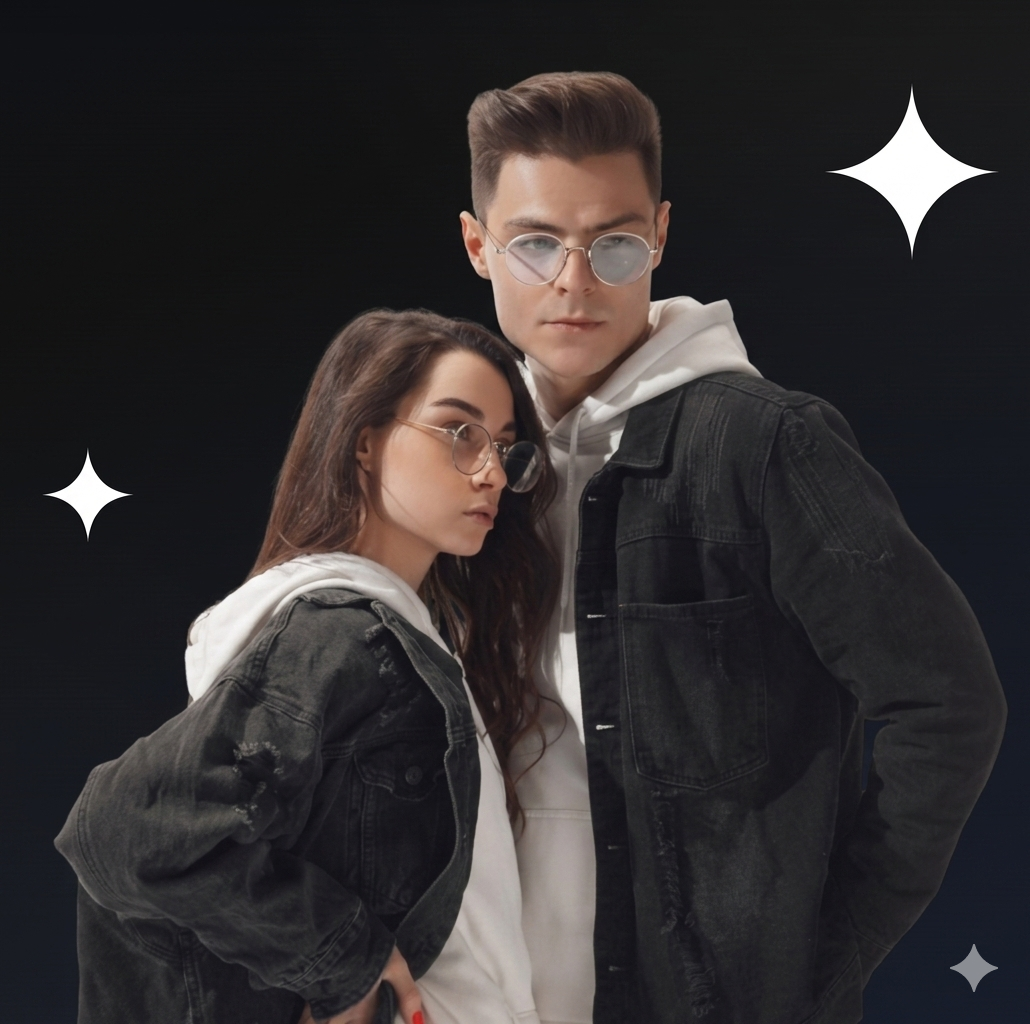
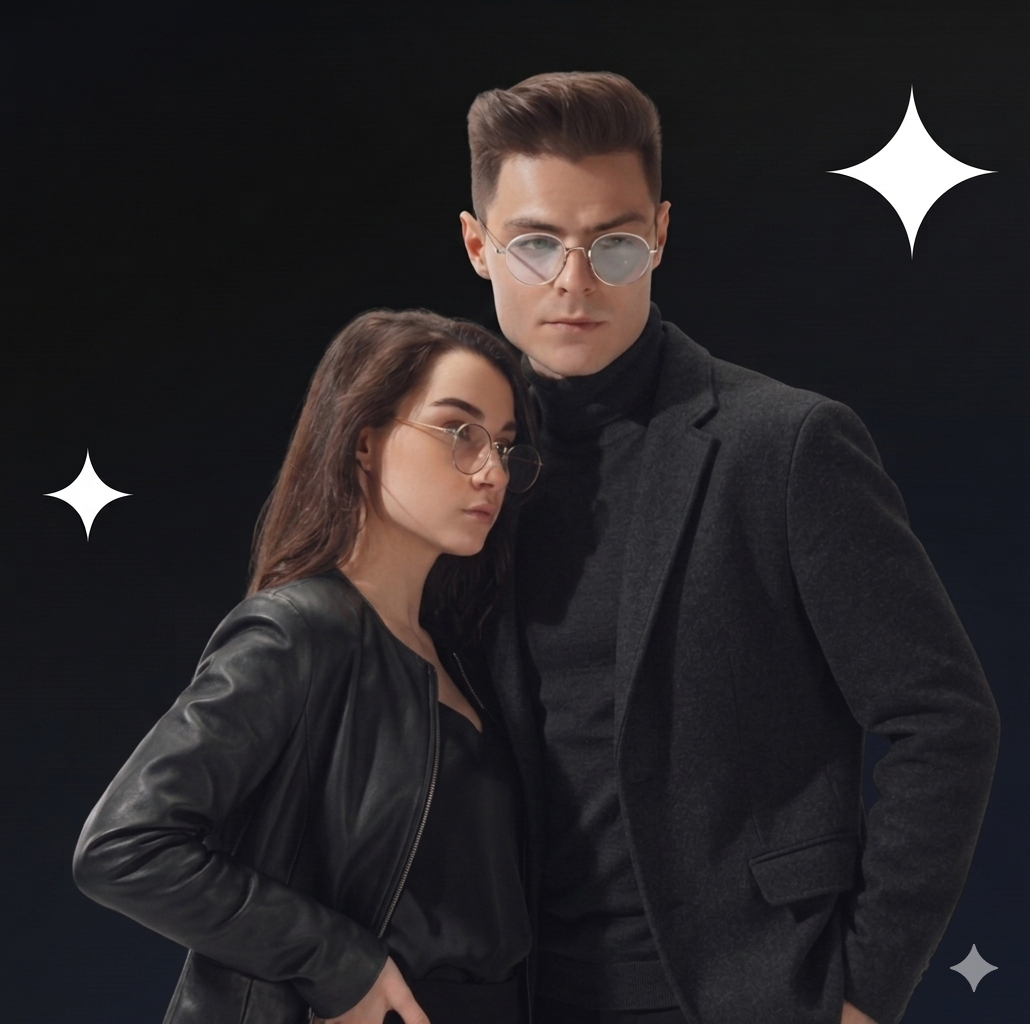
Polish dark theme surfaces and sync product ratings
Tune the dark mode top bar, navbar glass, dropdowns, and footer surfaces so they sit more naturally with the page background while keeping the light mode look unchanged.

Fix the shared product rating output so the text now matches the half-star display on product cards, and apply that same normalized rating logic on the product details page too.

Also update the dark hero image asset, keep the home page section markup comments a bit clearer, and remove the extra trailing blank lines from the auth stylesheet.

diff --git a/index.html b/index.html
@@ -219,6 +219,7 @@
       <!-- ==================== NEW ARRIVALS SECTION ==================== -->
       <section class="new-arrivals-section py-5" id="new-arrival">
         <div class="container-xl">
+          <!-- Section Title -->
           <div class="row mb-5">
             <div class="col-12">
               <h2 class="section-title text-center">NEW ARRIVALS</h2>
@@ -241,7 +242,13 @@
               <h2 class="section-title text-center">TOP SELLING</h2>
             </div>
           </div>
-          <div class="row g-4" id="top-selling-container"></div>
+
+          <!-- Products Grid -->
+          <div class="row g-4" id="top-selling-container">
+            <!-- Products will be dynamically inserted here -->
+          </div>
+
+          <!-- View All Button -->
           <div class="row mt-5">
             <div class="col-12 text-center">
               <button class="btn-view-all">View All</button>
@@ -253,12 +260,19 @@
       <!-- ==================== FEATURED PRODUCTS - SHOES ==================== -->
       <section class="featured-shoes-section py-5">
         <div class="container-xl">
+          <!-- Section Title -->
           <div class="row mb-5">
             <div class="col-12">
               <h2 class="section-title text-center">FEATURED SHOES & SNEAKERS</h2>
             </div>
           </div>
-          <div class="row g-4" id="featured-shoes-container"></div>
+
+          <!-- Products Grid -->
+          <div class="row g-4" id="featured-shoes-container">
+            <!-- Products will be dynamically inserted here -->
+          </div>
+
+          <!-- View All Button -->
           <div class="row mt-5">
             <div class="col-12 text-center">
               <button class="btn-view-all">View All</button>
@@ -275,7 +289,13 @@
               <h2 class="section-title text-center">FEATURED SHIRTS & TOPS</h2>
             </div>
           </div>
-          <div class="row g-4" id="featured-shirts-container"></div>
+
+          <!-- Products Grid -->
+          <div class="row g-4" id="featured-shirts-container">
+            <!-- Products will be dynamically inserted here -->
+          </div>
+
+          <!-- View All Button -->
           <div class="row mt-5">
             <div class="col-12 text-center">
               <button class="btn-view-all">View All</button>
@@ -367,10 +387,16 @@
             </div>
           </div>
         </div>
+
+        <!-- Carousel wrapper (handles the edge blur/peek) -->
         <div class="hc-carousel-wrapper">
           <div class="hc-fade hc-fade-left"></div>
           <div class="hc-fade hc-fade-right"></div>
-          <div class="hc-track" id="hc-track"></div>
+
+          <!-- Scrollable track -->
+          <div class="hc-track" id="hc-track">
+            <!-- Cards injected by JS -->
+          </div>
         </div>
       </section>
 
@@ -394,6 +420,7 @@
           </div>
         </div>
 
+        <!-- Main Footer Content -->
         <div class="footer-main">
           <div class="container-xl">
             <div class="row g-4">
@@ -427,6 +454,8 @@
                   <li><a href="#">Privacy Policy</a></li>
                 </ul>
               </div>
+
+              <!-- FAQ Column -->
               <div class="col-md-2">
                 <h5 class="footer-col-title">FAQ</h5>
                 <ul class="footer-links">
@@ -436,6 +465,8 @@
                   <li><a href="#">Payments</a></li>
                 </ul>
               </div>
+
+              <!-- Resources Column -->
               <div class="col-md-3">
                 <h5 class="footer-col-title">RESOURCES</h5>
                 <ul class="footer-links">
@@ -449,6 +480,7 @@
 
             <hr class="footer-divider" />
 
+            <!-- Bottom Section -->
             <div class="footer-bottom">
               <p class="footer-copyright">Shop.co © 2023-2025. All Rights Reserved</p>
               <div class="payment-methods">

diff --git a/styles/dark-overide.css b/styles/dark-overide.css
@@ -56,11 +56,15 @@
    ============================================================ */
 
 [data-theme="dark"] body > nav {
-  background: rgba(15, 23, 42, 0.72) !important;
+  background:
+    linear-gradient(135deg, rgba(255, 255, 255, 0.06) 0%, rgba(255, 255, 255, 0.02) 100%),
+    radial-gradient(circle at 10% 8%, rgba(255, 255, 255, 0.04) 0%, transparent 26%),
+    radial-gradient(circle at 88% 6%, rgba(255, 255, 255, 0.05) 0%, transparent 22%),
+    linear-gradient(160deg, rgba(15, 23, 42, 0.58) 0%, rgba(17, 17, 17, 0.5) 48%, rgba(26, 34, 53, 0.58) 100%) !important;
   border-bottom: 1px solid rgba(255, 255, 255, 0.08) !important;
-  backdrop-filter: blur(20px) saturate(1.4);
-  -webkit-backdrop-filter: blur(20px) saturate(1.4);
-  box-shadow: 0 1px 0 rgba(255, 255, 255, 0.06), 0 8px 32px rgba(0, 0, 0, 0.3);
+  backdrop-filter: blur(20px) saturate(1.35);
+  -webkit-backdrop-filter: blur(20px) saturate(1.35);
+  box-shadow: 0 1px 0 rgba(255, 255, 255, 0.05), 0 12px 30px rgba(0, 0, 0, 0.22);
 }
 
 [data-theme="dark"] body > nav .logo,
@@ -89,7 +93,10 @@
 }
 
 [data-theme="dark"] body > nav .dropdown-menu {
-  background: rgba(15, 23, 42, 0.92) !important;
+  background:
+    linear-gradient(135deg, rgba(255, 255, 255, 0.05) 0%, rgba(255, 255, 255, 0.02) 100%),
+    radial-gradient(circle at 10% 8%, rgba(255, 255, 255, 0.03) 0%, transparent 28%),
+    linear-gradient(160deg, rgba(15, 23, 42, 0.74) 0%, rgba(17, 17, 17, 0.64) 48%, rgba(26, 34, 53, 0.74) 100%) !important;
   border: 1px solid rgba(255, 255, 255, 0.1) !important;
   backdrop-filter: blur(20px);
   box-shadow: 0 16px 40px rgba(0, 0, 0, 0.45);
@@ -106,7 +113,10 @@
 
 /* Mobile nav open state */
 [data-theme="dark"] body > nav.nav-open .nav-menu {
-  background: rgba(15, 23, 42, 0.96) !important;
+  background:
+    linear-gradient(135deg, rgba(255, 255, 255, 0.05) 0%, rgba(255, 255, 255, 0.02) 100%),
+    radial-gradient(circle at 10% 8%, rgba(255, 255, 255, 0.03) 0%, transparent 30%),
+    linear-gradient(160deg, rgba(15, 23, 42, 0.82) 0%, rgba(17, 17, 17, 0.72) 48%, rgba(26, 34, 53, 0.82) 100%) !important;
   border-bottom: 1px solid rgba(255, 255, 255, 0.08) !important;
   backdrop-filter: blur(24px);
 }
@@ -369,7 +379,10 @@
    ============================================================ */
 
 [data-theme="dark"] .footer {
-  background: rgba(10, 15, 30, 0.85) !important;
+  background:
+    radial-gradient(circle at 10% 8%, rgba(255, 255, 255, 0.04) 0%, transparent 26%),
+    radial-gradient(circle at 88% 6%, rgba(255, 255, 255, 0.05) 0%, transparent 22%),
+    linear-gradient(160deg, rgba(15, 23, 42, 0.36) 0%, rgba(17, 17, 17, 0.3) 48%, rgba(26, 34, 53, 0.36) 100%) !important;
   border-top: 1px solid rgba(255, 255, 255, 0.08) !important;
   backdrop-filter: blur(20px);
 }
@@ -379,8 +392,12 @@
 }
 
 [data-theme="dark"] .footer-newsletter {
-  background: rgba(255, 255, 255, 0.04) !important;
+  background:
+    linear-gradient(135deg, rgba(255, 255, 255, 0.05) 0%, rgba(255, 255, 255, 0.02) 100%),
+    radial-gradient(circle at 10% 8%, rgba(255, 255, 255, 0.03) 0%, transparent 30%),
+    linear-gradient(160deg, rgba(15, 23, 42, 0.34) 0%, rgba(17, 17, 17, 0.28) 48%, rgba(26, 34, 53, 0.34) 100%) !important;
   border-bottom: 1px solid rgba(255, 255, 255, 0.07) !important;
+  backdrop-filter: blur(18px);
 }
 
 [data-theme="dark"] .newsletter-title {

diff --git a/styles/base.css b/styles/base.css
@@ -206,13 +206,13 @@
   --color-accent-secondary: rgba(255, 255, 255, 0.72);
 
   /* ── Navbar ── */
-  --color-nav-bg: rgba(15, 23, 42, 0.92);
+  --color-nav-bg: rgba(12, 12, 12, 0.24);
   --color-nav-border: rgba(255, 255, 255, 0.08);
   --color-nav-text: #f1f1f1;
-  --color-nav-shadow: rgba(0, 0, 0, 0.4);
+  --color-nav-shadow: rgba(0, 0, 0, 0.28);
 
   /* ── Top Info Bar ── */
-  --color-topbar-bg: #000000;
+  --color-topbar-bg: transparent;
   --color-topbar-text: #ffffff;
 
   /* ── Buttons ── */
@@ -348,7 +348,9 @@ button { font-family: inherit; cursor: pointer; border: none; }
   text-align: center;
   padding: 10px;
   font-size: 12px;
-  transition: background-color 0.35s ease;
+  transition:
+    background-color 0.35s ease,
+    color 0.35s ease;
 }
 
 /* ============================================
@@ -373,18 +375,41 @@ button { font-family: inherit; cursor: pointer; border: none; }
     border-color 0.35s ease;
 }
 
-.tab-pane { transition: opacity 0.3s ease; }
-.tab-pane.active { animation: fadeIn 0.3s ease; }
-.filter-option { transition: background-color 0.2s ease, color 0.2s ease; }
-.reviews-count { transition: color 0.3s ease; }
-.qty-display { transition: transform 0.2s ease; }
-
-@keyframes bounce {
-  0%, 100% { transform: scale(1); }
-  50%       { transform: scale(1.2); }
+.tab-pane {
+  transition: opacity 0.3s ease;
 }
 
-.qty-display.updated { animation: bounce 0.3s ease; }
+.tab-pane.active {
+  animation: fadeIn 0.3s ease;
+}
+
+.filter-option {
+  transition:
+    background-color 0.2s ease,
+    color 0.2s ease;
+}
+
+.reviews-count {
+  transition: color 0.3s ease;
+}
+
+.qty-display {
+  transition: transform 0.2s ease;
+}
+
+@keyframes bounce {
+  0%,
+  100% {
+    transform: scale(1);
+  }
+  50% {
+    transform: scale(1.2);
+  }
+}
+
+.qty-display.updated {
+  animation: bounce 0.3s ease;
+}
 
 /* ============================================
    NAVIGATION BAR
@@ -580,7 +605,10 @@ body > nav .dropdown-trigger {
   background: transparent;
 }
 
-body > nav .dropdown-link { display: inline-flex; align-items: center; }
+body > nav .dropdown-link {
+  display: inline-flex;
+  align-items: center;
+}
 
 body > nav .dropdown-toggle-btn {
   display: inline-flex;
@@ -890,7 +918,9 @@ body > nav .dropdown.is-open .dropdown-caret { transform: rotate(180deg); }
     transform: translateX(4px);
   }
 
-  body > nav.nav-open .nav-menu .dropdown { display: block; }
+  body > nav.nav-open .nav-menu .dropdown {
+    display: block;
+  }
 
   body > nav.nav-open .dropdown-trigger {
     display: inline-flex;

diff --git a/js/product-detail.js b/js/product-detail.js
@@ -1,8 +1,7 @@
 import { products } from "./products.js";
 import { reviews } from "./review.js";
 import { getAllProducts } from "./api-service.js";
-import { createProductCard } from "./render-products.js";
-import { attachProductCardListeners } from "./render-products.js";
+import { createProductCard, formatRatingText, normalizeRating } from "./render-products.js";
 
 
 document.addEventListener("DOMContentLoaded", async function () {
@@ -51,9 +50,10 @@ document.addEventListener("DOMContentLoaded", async function () {
 
   // ────── RENDER STARS ──────
   function renderStars(rating) {
-    const fullStars = Math.floor(rating);
-    const hasHalf = rating % 1 !== 0;
-    const empty = 5 - Math.ceil(rating);
+    const normalizedRating = normalizeRating(rating);
+    const fullStars = Math.floor(normalizedRating);
+    const hasHalf = normalizedRating % 1 !== 0;
+    const empty = 5 - Math.ceil(normalizedRating);
     let html = "";
 
     // Full stars
@@ -145,7 +145,8 @@ function updateCartBadge() {
     // Update rating
     const starsContainer = document.querySelector(".stars");
     starsContainer.innerHTML = renderStars(product.rating);
-    document.getElementById("rating-text").textContent = `${product.rating}/5`;
+    document.getElementById("rating-text").textContent =
+      formatRatingText(product.rating);
 
     // Update prices
     document.getElementById("current-price").textContent = `$${product.price}`;

diff --git a/js/render-products.js b/js/render-products.js
@@ -31,6 +31,26 @@ function renderStars(rating) {
   return starsHtml;
 }
 
+export function normalizeRating(rating) {
+    const numericRating = Number(rating);
+
+    if (!Number.isFinite(numericRating) || numericRating <= 0) {
+      return 0;
+    }
+
+    const cappedRating = Math.min(5, numericRating);
+    const fullStars = Math.floor(cappedRating);
+    const hasHalfStar = cappedRating % 1 !== 0;
+
+    return fullStars + (hasHalfStar ? 0.5 : 0);
+  }
+
+  export function formatRatingText(rating) {
+    return `${normalizeRating(rating).toFixed(1)}/5`;
+  }
+
+
+
 // Function to create product card HTML
 export function createProductCard(product) {
   const discountPercent = product.oldPrice
@@ -49,7 +69,7 @@ export function createProductCard(product) {
             <div class="star-rating">
               ${renderStars(product.rating)}
             </div>
-            <span class="review-count">${product.reviewCount}</span>
+            <span class="review-count">${formatRatingText(product.rating)}</span>
           </div>
           <div class="product-price">
             <span class="current-price">$${product.price}</span>

diff --git a/styles/auth.css b/styles/auth.css
@@ -711,10 +711,6 @@
 
 
 
-
-
-
-
 /* ============================================
    AUTH PAGE — auth.css
    Dark mode additions appended below the
